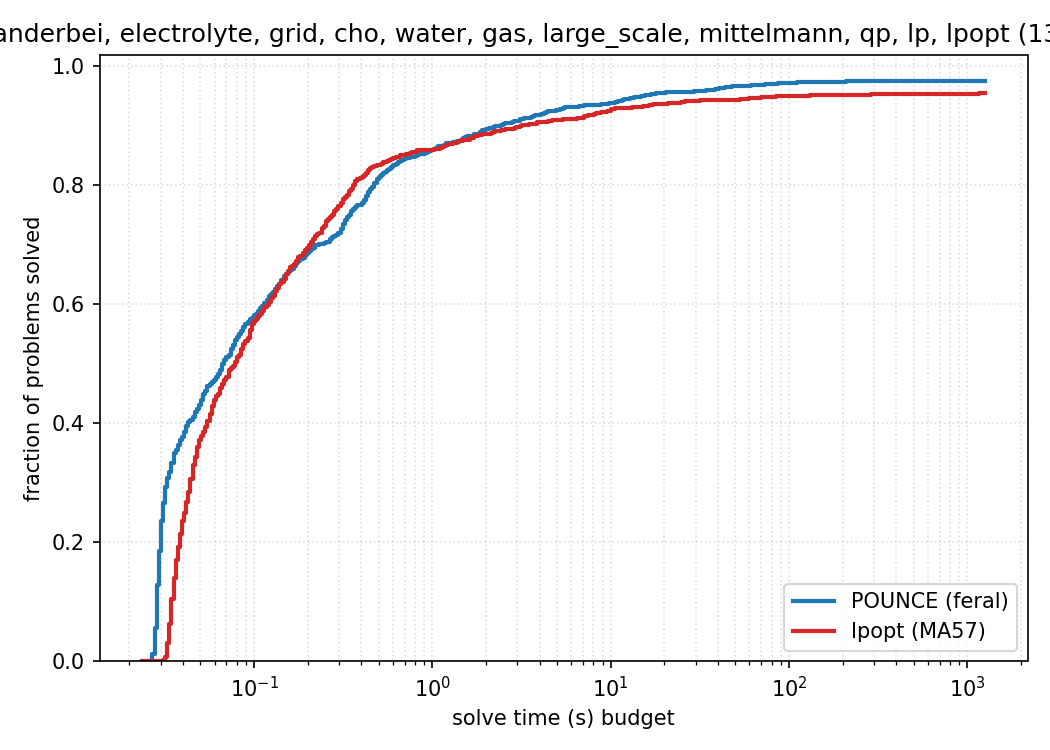
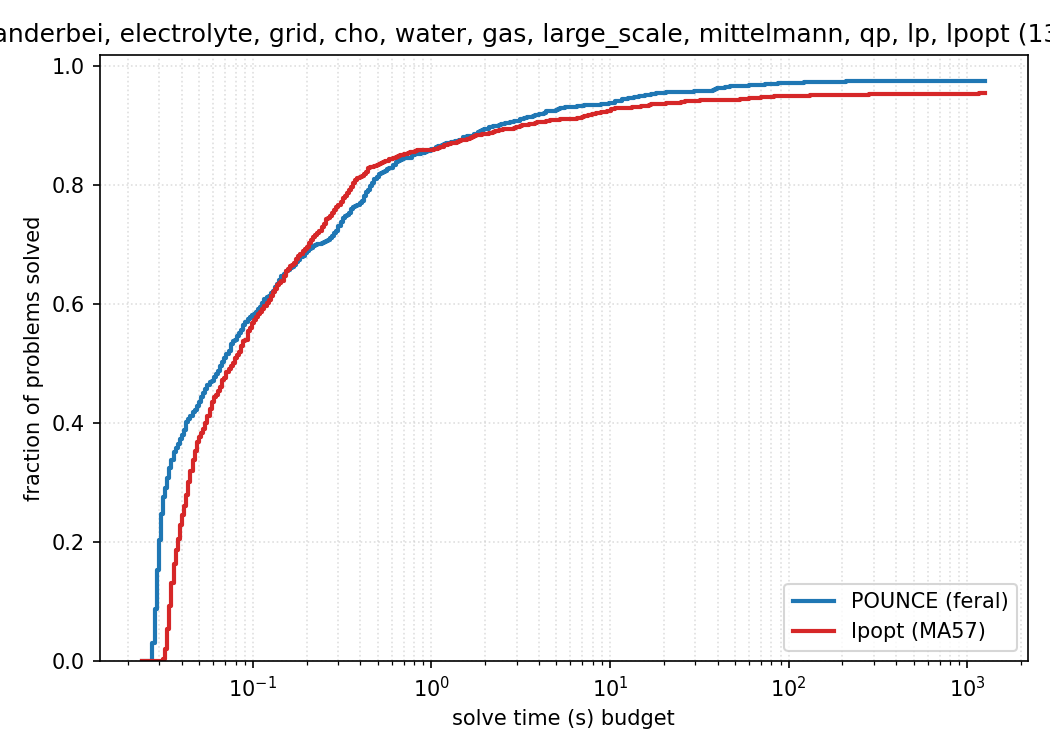
Benchmark report: clean sweep at 18ddf795
Full `make benchmark-rerun` in a fresh worktree at 18ddf795 (the release
candidate: tiny-step stall bound, mu_strategy_fallback restore, wheel).
POUNCE 1309/1345, Ipopt-MA57 1260/1345, the same as the f1787277 sweep.
Every class matches that sweep model for model in status and objective
(vanderbei 707/733, electrolyte 13, grid 22, cho 1, large_scale 6,
mittelmann 46/47, gas 3/4, water 6, qp 138, lp 369/371, lp_convex
368+369/371, qp_convex 137+138/138, lbfgs 46+33/47, lpopt 2/4); the report
diff is wall-clock time only. WM_CFy 287.7 s (was 286.7 s).

Claude-Session: https://claude.ai/code/session_01EvxVQz6RqyiijCMgTGPXP4

diff --git a/benchmarks/BENCHMARK_REPORT.md b/benchmarks/BENCHMARK_REPORT.md
@@ -1,13 +1,13 @@
 # POUNCE Benchmark Report
 
-Generated: 2026-11-02 21:05:14
+Generated: 2026-11-03 13:44:49
 
 ## Provenance
 
 | Component | Version / Detail |
 |-----------|------------------|
-| POUNCE | v0.14.0 (HEAD @ f1787277) |
-| POUNCE binary | pounce 0.14.0 (commit f1787277, built 2026-11-02T22:47:01Z) |
+| POUNCE | v0.15.0 (HEAD @ 18ddf795) |
+| POUNCE binary | pounce 0.15.0 (commit 18ddf795, built 2026-11-03T15:13:53Z) |
 | POUNCE linear solver | feral (default) |
 | Ipopt | Ipopt 3.14.20 (Darwin arm64), ASL(20241202) |
 | Ipopt linear solver | ma57 (via ref/Ipopt/install-ma57) |
@@ -137,16 +137,16 @@ On 681 commonly-solved problems:
 
 | Metric | POUNCE | Ipopt |
 |--------|--------|-------|
-| Median time | 31.7ms | 44.3ms |
-| Total time | 275.92s | 234.88s |
+| Median time | 32.6ms | 44.3ms |
+| Total time | 277.66s | 234.88s |
 | Mean iterations | 45.8 | 47.2 |
 | Median iterations | 15 | 16 |
 
 - **Geometric mean speedup**: 1.1x
 - **Median speedup**: 1.2x
-- POUNCE faster: 512/681 (75%)
+- POUNCE faster: 504/681 (74%)
 - POUNCE 10x+ faster: 1/681
-- Ipopt faster: 169/681
+- Ipopt faster: 177/681
 
 ## Electrolyte Suite — Performance
 
@@ -154,13 +154,13 @@ On 13 commonly-solved problems:
 
 | Metric | POUNCE | Ipopt |
 |--------|--------|-------|
-| Median time | 27.9ms | 37.6ms |
-| Total time | 369.4ms | 503.3ms |
+| Median time | 29.1ms | 37.6ms |
+| Total time | 383.3ms | 503.3ms |
 | Mean iterations | 9.5 | 12.2 |
 | Median iterations | 7 | 10 |
 
-- **Geometric mean speedup**: 1.4x
-- **Median speedup**: 1.3x
+- **Geometric mean speedup**: 1.3x
+- **Median speedup**: 1.2x
 - POUNCE faster: 13/13 (100%)
 - POUNCE 10x+ faster: 0/13
 - Ipopt faster: 0/13
@@ -171,8 +171,8 @@ On 22 commonly-solved problems:
 
 | Metric | POUNCE | Ipopt |
 |--------|--------|-------|
-| Median time | 194.4ms | 88.5ms |
-| Total time | 49.09s | 27.54s |
+| Median time | 194.8ms | 88.5ms |
+| Total time | 49.59s | 27.54s |
 | Mean iterations | 41.3 | 59.7 |
 | Median iterations | 36 | 36 |
 
@@ -188,8 +188,8 @@ On 1 commonly-solved problems:
 
 | Metric | POUNCE | Ipopt |
 |--------|--------|-------|
-| Median time | 3.08s | 1.76s |
-| Total time | 3.08s | 1.76s |
+| Median time | 3.06s | 1.76s |
+| Total time | 3.06s | 1.76s |
 | Mean iterations | 31.0 | 33.0 |
 | Median iterations | 31 | 33 |
 
@@ -205,8 +205,8 @@ On 6 commonly-solved problems:
 
 | Metric | POUNCE | Ipopt |
 |--------|--------|-------|
-| Median time | 96.8ms | 122.5ms |
-| Total time | 726.5ms | 696.0ms |
+| Median time | 97.6ms | 122.5ms |
+| Total time | 732.0ms | 696.0ms |
 | Mean iterations | 233.5 | 205.2 |
 | Median iterations | 197 | 209 |
 
@@ -222,8 +222,8 @@ On 3 commonly-solved problems:
 
 | Metric | POUNCE | Ipopt |
 |--------|--------|-------|
-| Median time | 79.6ms | 113.3ms |
-| Total time | 276.4ms | 374.0ms |
+| Median time | 80.9ms | 113.3ms |
+| Total time | 279.5ms | 374.0ms |
 | Mean iterations | 39.7 | 39.7 |
 | Median iterations | 20 | 20 |
 
@@ -239,8 +239,8 @@ On 6 commonly-solved problems:
 
 | Metric | POUNCE | Ipopt |
 |--------|--------|-------|
-| Median time | 3.07s | 1.27s |
-| Total time | 256.50s | 119.55s |
+| Median time | 3.11s | 1.27s |
+| Total time | 259.24s | 119.55s |
 | Mean iterations | 385.7 | 295.2 |
 | Median iterations | 13 | 6 |
 
@@ -256,8 +256,8 @@ On 41 commonly-solved problems:
 
 | Metric | POUNCE | Ipopt |
 |--------|--------|-------|
-| Median time | 9.71s | 6.88s |
-| Total time | 1063.09s | 2634.84s |
+| Median time | 9.73s | 6.88s |
+| Total time | 1065.77s | 2634.84s |
 | Mean iterations | 88.5 | 121.5 |
 | Median iterations | 42 | 55 |
 
@@ -273,16 +273,16 @@ On 133 commonly-solved problems:
 
 | Metric | POUNCE | Ipopt |
 |--------|--------|-------|
-| Median time | 76.8ms | 92.9ms |
-| Total time | 94.31s | 172.97s |
+| Median time | 77.1ms | 92.9ms |
+| Total time | 94.37s | 172.97s |
 | Mean iterations | 19.8 | 75.6 |
 | Median iterations | 18 | 24 |
 
 - **Geometric mean speedup**: 1.2x
 - **Median speedup**: 1.2x
-- POUNCE faster: 85/133 (64%)
+- POUNCE faster: 89/133 (67%)
 - POUNCE 10x+ faster: 2/133
-- Ipopt faster: 48/133
+- Ipopt faster: 44/133
 
 ## LP Suite — Performance
 
@@ -290,16 +290,16 @@ On 352 commonly-solved problems:
 
 | Metric | POUNCE | Ipopt |
 |--------|--------|-------|
-| Median time | 149.8ms | 157.8ms |
-| Total time | 316.04s | 422.20s |
+| Median time | 144.4ms | 157.8ms |
+| Total time | 315.28s | 422.20s |
 | Mean iterations | 35.5 | 107.3 |
 | Median iterations | 24 | 56 |
 
-- **Geometric mean speedup**: 1.1x
+- **Geometric mean speedup**: 1.2x
 - **Median speedup**: 1.0x
-- POUNCE faster: 185/352 (53%)
+- POUNCE faster: 191/352 (54%)
 - POUNCE 10x+ faster: 8/352
-- Ipopt faster: 167/352
+- Ipopt faster: 161/352
 
 ## Failure Analysis
 
@@ -439,12 +439,12 @@ These suites currently run POUNCE only — no Ipopt-side comparison is captured 
 
 | Problem | n | m | Status | Objective | Iters | Time |
 |---------|---|---|--------|-----------|-------|------|
-| ex10 | 17,680 | 69,608 | Maximum_CpuTime_Exceeded | N/A | 0 | 300.08s |
-| irish-electricity | 61,728 | 104,259 | Maximum_CpuTime_Exceeded | N/A | 884 | 300.05s |
-| qap15 | 22,275 | 6,330 | Optimal | 1.0410e+03 | 26 | 34.01s |
-| supportcase10 | 14,630 | 165,684 | Optimal | 3.3839e+00 | 32 | 109.87s |
+| ex10 | 17,680 | 69,608 | Maximum_CpuTime_Exceeded | N/A | 0 | 300.13s |
+| irish-electricity | 61,728 | 104,259 | Maximum_CpuTime_Exceeded | N/A | 725 | 300.06s |
+| qap15 | 22,275 | 6,330 | Optimal | 1.0410e+03 | 26 | 38.18s |
+| supportcase10 | 14,630 | 165,684 | Optimal | 3.3839e+00 | 32 | 119.70s |
 
-POUNCE: **2/4 Optimal** in 744.01s total
+POUNCE: **2/4 Optimal** in 758.08s total
 
 ## Dedicated Convex Solver vs. General NLP (head-to-head)
 
@@ -479,16 +479,16 @@ On 349 problems solved by both arms:
 
 | Metric | pounce-convex | pounce-nlp |
 |--------|---------------|------------|
-| Median time | 144.2ms | 172.2ms |
-| Total time | 134.45s | 360.84s |
+| Median time | 142.3ms | 174.0ms |
+| Total time | 133.48s | 360.99s |
 | Mean iterations | 25.6 | 105.1 |
 | Median iterations | 24 | 56 |
 
 - **Geometric-mean speedup (pounce-convex over pounce-nlp)**: 1.3x
 - **Median speedup**: 1.1x
-- pounce-convex faster: 219/349 (63%)
+- pounce-convex faster: 229/349 (66%)
 - pounce-convex 10x+ faster: 6/349
-- pounce-nlp faster: 130/349
+- pounce-nlp faster: 120/349
 
 ### QP — convex vs NLP
 
@@ -503,16 +503,16 @@ On 136 problems solved by both arms:
 
 | Metric | pounce-convex | pounce-nlp |
 |--------|---------------|------------|
-| Median time | 77.7ms | 91.2ms |
-| Total time | 356.63s | 335.81s |
+| Median time | 77.8ms | 90.4ms |
+| Total time | 357.22s | 336.84s |
 | Mean iterations | 20.4 | 81.6 |
 | Median iterations | 18 | 24 |
 
 - **Geometric-mean speedup (pounce-convex over pounce-nlp)**: 1.0x
 - **Median speedup**: 1.0x
-- pounce-convex faster: 64/136 (47%)
+- pounce-convex faster: 54/136 (40%)
 - pounce-convex 10x+ faster: 1/136
-- pounce-nlp faster: 72/136
+- pounce-nlp faster: 82/136
 
 ### Mittelmann — exact vs L-BFGS
 
@@ -527,16 +527,16 @@ On 31 problems solved by both arms:
 
 | Metric | exact Hessian | L-BFGS |
 |--------|---------------|------------|
-| Median time | 10.02s | 10.05s |
-| Total time | 551.96s | 727.53s |
+| Median time | 10.11s | 10.30s |
+| Total time | 555.68s | 758.79s |
 | Mean iterations | 67.6 | 280.8 |
 | Median iterations | 35 | 71 |
 
 - **Geometric-mean speedup (exact Hessian over L-BFGS)**: 1.6x
 - **Median speedup**: 1.6x
-- exact Hessian faster: 21/31 (68%)
+- exact Hessian faster: 22/31 (71%)
 - exact Hessian 10x+ faster: 2/31
-- L-BFGS faster: 10/31
+- L-BFGS faster: 9/31
 
 ---
 *Generated by benchmark_report.py*
